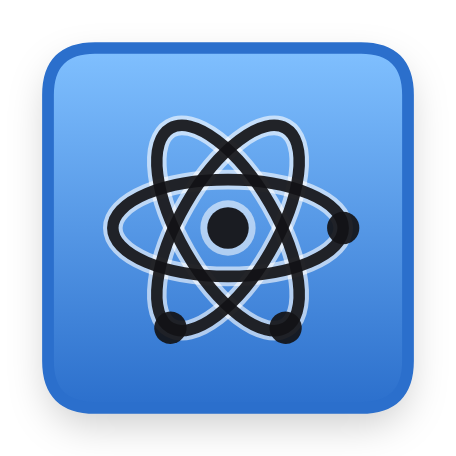
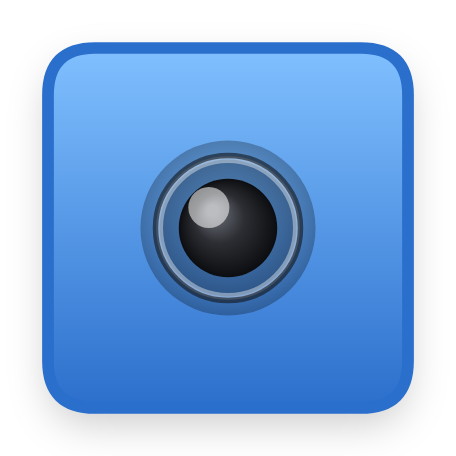
Idée 2: closed box shows a core window instead of the neutron symbol
Replace the atom/electron symbol on closed heavy boxes with a small
central porthole revealing the same dark metallic core the marbles
carry (glass lens + metal rim), keeping the box's design and colour
intact — a discreet, diegetic Heavy signal. Update showcase text and
regenerate assets to match.

Claude-Session: https://claude.ai/code/session_01PjGdK4EQRB6mJyeBT2zsHj

Changed region(s): [[0.2149, 0.2456, 0.7982, 0.7675]]

diff --git a/js/heavy.js b/js/heavy.js
@@ -17,10 +17,11 @@
 //   • On contact with the funnel floor / conveyor the core shrinks into
 //     itself until it disappears (no external explosion, nothing to
 //     break) — same trigger/timing as a Bubble Marbles bubble pop.
-//   • A still-closed heavy box shows a neutron/atom symbol while its
-//     colour stays fully visible.
+//   • A still-closed heavy box keeps its full design + colour and shows
+//     a small central WINDOW revealing the same dark core the marbles
+//     will carry — a diegetic "this box is Heavy" signal.
 //
-// This file owns: tuning, the core + neutron rendering and the core-pop
+// This file owns: tuning, the core + window rendering and the core-pop
 // routine. Physics speed-up + overtaking live in physics.js; spawn/flag
 // plumbing lives in game.js, tunnel.js and editor.js.
 // ============================================================
@@ -66,47 +67,50 @@ function drawHeavyCore(x, y, r, coreScale) {
   ctx.restore();
 }
 
-// ── Neutron / atom symbol (three orbits + nucleus + electrons) ──
-// Drawn centred at (cx, cy) with overall radius R. A soft white halo
-// underneath keeps it legible on any box colour.
-function drawNeutronSymbol(cx, cy, R) {
+// ── The core "window" on a closed heavy box ──
+// A small recessed porthole at (cx, cy) revealing the SAME dark metallic
+// core the marbles carry (matching gradient), behind a little glass lens
+// with a metal rim. Discreet: it doesn't cover the box colour.
+function drawCoreWindow(cx, cy, winR) {
+  var cr = winR * 0.72; // the core visible inside the window
   ctx.save();
-  ctx.lineCap = 'round';
 
-  function orbits(color, lw) {
-    ctx.strokeStyle = color; ctx.lineWidth = lw;
-    for (var k = 0; k < 3; k++) {
-      ctx.save();
-      ctx.translate(cx, cy); ctx.rotate(k * Math.PI / 3);
-      ctx.beginPath(); ctx.ellipse(0, 0, R, R * 0.42, 0, 0, Math.PI * 2); ctx.stroke();
-      ctx.restore();
-    }
-  }
-  orbits('rgba(255,255,255,0.6)', Math.max(2, R * 0.17));   // halo
-  orbits('rgba(18,18,22,0.92)', Math.max(1.5, R * 0.10));    // dark orbits
+  // Recessed housing shadow around the porthole
+  var hg = ctx.createRadialGradient(cx, cy, winR * 0.6, cx, cy, winR * 1.28);
+  hg.addColorStop(0, 'rgba(0,0,0,0)');
+  hg.addColorStop(1, 'rgba(0,0,0,0.28)');
+  ctx.fillStyle = hg;
+  ctx.beginPath(); ctx.arc(cx, cy, winR * 1.28, 0, Math.PI * 2); ctx.fill();
 
-  // Electrons on each orbit
-  ctx.fillStyle = 'rgba(18,18,22,0.92)';
-  for (var k = 0; k < 3; k++) {
-    ctx.save();
-    ctx.translate(cx, cy); ctx.rotate(k * Math.PI / 3);
-    ctx.beginPath(); ctx.arc(R, 0, R * 0.14, 0, Math.PI * 2); ctx.fill();
-    ctx.restore();
-  }
+  // Glass base (slightly darkened tint)
+  ctx.fillStyle = 'rgba(18,20,24,0.30)';
+  ctx.beginPath(); ctx.arc(cx, cy, winR, 0, Math.PI * 2); ctx.fill();
 
-  // Nucleus (light halo + dark centre)
+  // Dark metallic core — identical language to the marbles' core
+  var g = ctx.createRadialGradient(cx - cr * 0.32, cy - cr * 0.36, cr * 0.1, cx, cy, cr);
+  g.addColorStop(0, '#6A6E77');
+  g.addColorStop(0.45, '#2C2E33');
+  g.addColorStop(1, '#0C0D10');
+  ctx.fillStyle = g;
+  ctx.beginPath(); ctx.arc(cx, cy, cr, 0, Math.PI * 2); ctx.fill();
+
+  // Glass specular highlight
   ctx.fillStyle = 'rgba(255,255,255,0.55)';
-  ctx.beginPath(); ctx.arc(cx, cy, R * 0.24, 0, Math.PI * 2); ctx.fill();
-  ctx.fillStyle = 'rgba(18,18,22,0.95)';
-  ctx.beginPath(); ctx.arc(cx, cy, R * 0.18, 0, Math.PI * 2); ctx.fill();
+  ctx.beginPath(); ctx.arc(cx - winR * 0.28, cy - winR * 0.3, winR * 0.3, 0, Math.PI * 2); ctx.fill();
+
+  // Metal rim (bright inner + dark outer)
+  ctx.strokeStyle = 'rgba(255,255,255,0.4)'; ctx.lineWidth = Math.max(1, winR * 0.1);
+  ctx.beginPath(); ctx.arc(cx, cy, winR, 0, Math.PI * 2); ctx.stroke();
+  ctx.strokeStyle = 'rgba(18,20,24,0.6)'; ctx.lineWidth = Math.max(0.8, winR * 0.08);
+  ctx.beginPath(); ctx.arc(cx, cy, winR * 1.06, 0, Math.PI * 2); ctx.stroke();
 
   ctx.restore();
 }
 
 // ── A still-closed heavy box ──
-// Full box colour stays visible (so the player can read it) with the
-// neutron symbol on top. Hidden+heavy keeps the colour concealed.
-// Box-local coordinates, origin at box centre.
+// Full box design + colour stay intact; a small central core window
+// signals "Heavy" (same core as the marbles). Hidden+heavy keeps the
+// colour concealed. Box-local coordinates, origin at box centre.
 function drawHeavyClosedBox(w, h, S, tick, ci, boxType) {
   var left = -w / 2, top = -h / 2, r = 6 * S;
 
@@ -123,7 +127,7 @@ function drawHeavyClosedBox(w, h, S, tick, ci, boxType) {
     drawBox(left, top, w, h, ci);
   }
 
-  drawNeutronSymbol(0, 0, w * 0.32);
+  drawCoreWindow(0, 0, w * 0.19);
 }
 
 // ── Soft "pop" when the core vanishes on landing ──
